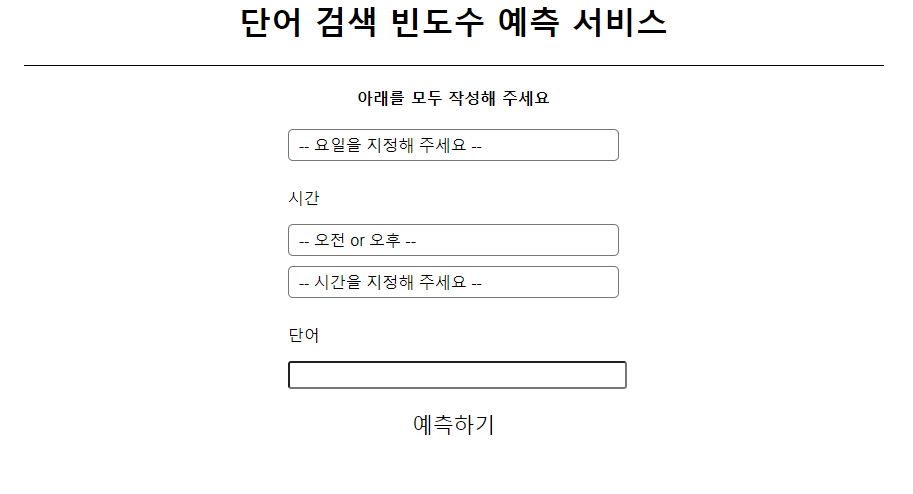
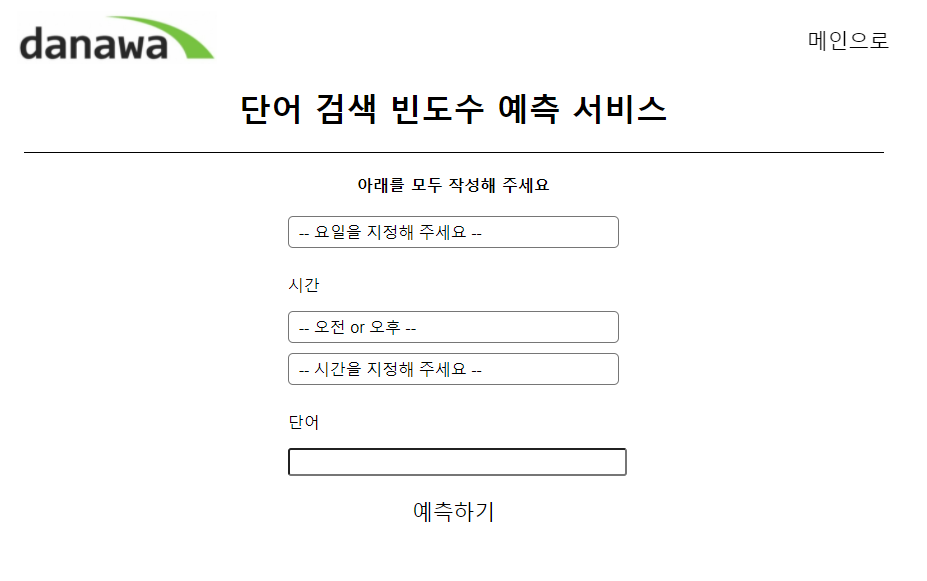
.

diff --git a/README.md b/README.md
@@ -1,6 +1,6 @@
 # Project
 
-머신러닝을 이용한 검색 단어 빈도수 예측 프로젝트입니다.
+머신러닝을 이용한 다나와 검색 단어 빈도수 예측 및 시각화 프로젝트입니다.
 
 
 
